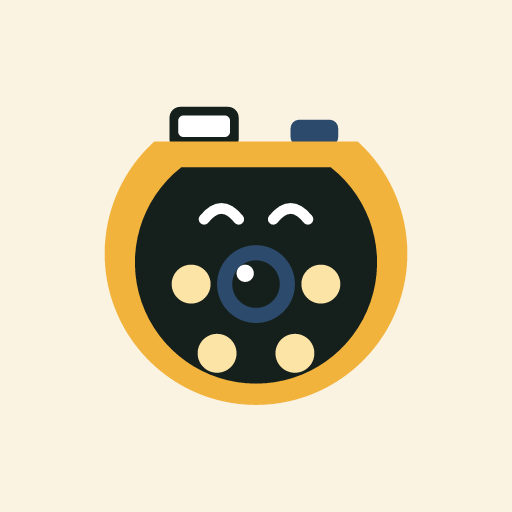
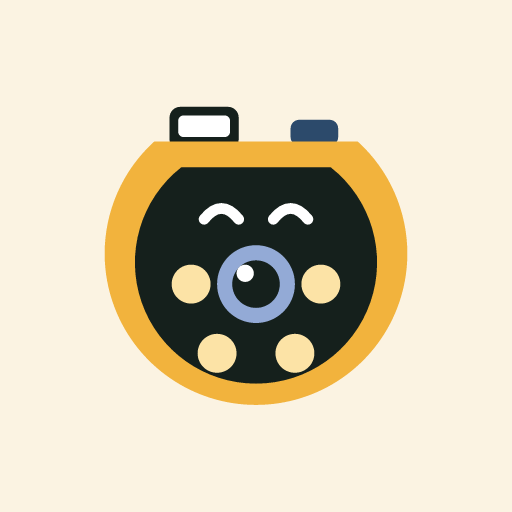
Mascot: light blue lens so it shows on the dark face
The dark accent on the near-black face was 1.8:1 and the lens vanished at
header size. The lens is now #93AAD6 in both themes; shutter and rays
keep #2C4A6B. PNGs and favicon.ico re-rendered.

Changed region(s): [[0.4062, 0.4688, 0.5938, 0.6562]]

diff --git a/Design/marca/LEIA-ME.md b/Design/marca/LEIA-ME.md
@@ -8,12 +8,13 @@ Ficha Type 2 com os 7 pinos, a objetiva no pino de terra, o obturador e o flash 
 |---|---|
 | Corpo | `#F2B33D` |
 | Face | `#15201C` |
-| Destaque (objetiva, obturador, raios) | `#2C4A6B` |
+| Destaque (obturador, raios) | `#2C4A6B` |
+| Objetiva | `#93AAD6` |
 | Pinos | `#FCE3A6` |
 | Olhos, janela do flash | `#FFFFFF` |
 | Fundo dos ícones de app | `#FBF3E2` |
 
-Em tema escuro, o `favicon.svg` e o `svg/pic-icon.svg` mudam o obturador para `#93AAD6` (o azul do tema escuro do site): o `#2C4A6B` desaparece contra um fundo escuro. A objetiva fica igual, porque está sobre a face e não sobre o fundo. O `.ico` e os PNG não mudam.
+Em tema escuro, o `favicon.svg` e o `svg/pic-icon.svg` mudam o obturador para `#93AAD6` (o azul do tema escuro do site): o `#2C4A6B` desaparece contra um fundo escuro. A objetiva é sempre `#93AAD6`, nos dois temas: está sobre a face escura, onde o azul escuro não se vê. O `.ico` e os PNG não mudam.
 
 ## Ficheiros
 
